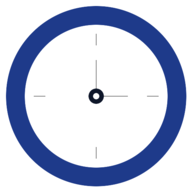
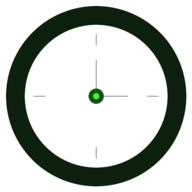
feat: complete hacker/Matrix green rebrand - deep green theme with bright highlights
🎨 Hacker Green Color Palette:
- Deep hacker green (#0d1f0d) - backgrounds & primary
- Medium green (#1a4d1a) - strokes & secondary elements
- Bright matrix green (#00ff41) - highlights & clock hands
- Electric green (#39ff14) - accents & center dot

🔄 Updated All Branding Elements:
- SVG icon: Complete Matrix-style clock with green theme
- PNG icons: Regenerated 192x192 & 512x512 with green colors
- Favicon: Multi-size with hacker green aesthetic
- PWA manifest: Updated theme color to deep green
- HTML meta: Theme & tile colors updated
- Browserconfig: Windows tile color updated
- Tailwind config: New brand & matrix color palettes
- UI components: Focus rings & interactive elements in green

💚 Authentic Hacker Aesthetic:
- Matrix-inspired color scheme with proper contrast
- Bright green highlights on dark green backgrounds
- Professional yet edgy visual identity
- Maintains excellent readability across all devices

Changed region(s): [[0.0312, 0.0312, 1.0, 1.0], [0.4375, 0.4375, 0.5625, 0.5625]]

diff --git a/tailwind.config.js b/tailwind.config.js
@@ -10,14 +10,20 @@ module.exports = {
     extend: {
       colors: {
         brand: {
-          primary: '#1e3a8a',
-          secondary: '#0f172a',
-          accent: '#2563eb',
-          light: '#dbeafe',
-          dark: '#0f172a',
+          primary: '#0d1f0d',
+          secondary: '#1a4d1a',
+          accent: '#00ff41',
+          light: '#e8f5e8',
+          dark: '#0d1f0d',
+        },
+        matrix: {
+          deep: '#0d1f0d',
+          medium: '#1a4d1a',
+          bright: '#00ff41',
+          electric: '#39ff14',
         },
         timer: {
-          work: '#1e3a8a',
+          work: '#00ff41',
           break: '#10b981',
           warning: '#f59e0b',
           danger: '#ef4444',
